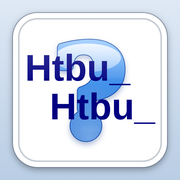
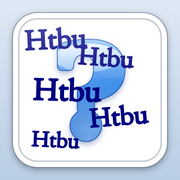
圖標字樣改成五組 Htbu：Satsuki 加粗、大小角度不一、部分交疊
Claude-Session: https://claude.ai/code/session_01CvYpPQnMtBqMma8WMqr6Vg

Changed region(s): [[0.1389, 0.1389, 0.8611, 0.7222], [0.1667, 0.7222, 0.4444, 0.8333]]

diff --git a/tools/icon.html b/tools/icon.html
@@ -1,8 +1,8 @@
 <!doctype html><meta charset="utf-8"><style>
 @font-face{font-family:QM;src:url(file:///usr/share/fonts/truetype/dejavu/DejaVuSerif-Bold.ttf)}
-@font-face{font-family:TX;src:url(file:///usr/share/fonts/truetype/liberation/LiberationSans-Bold.ttf)}
+@font-face{font-family:TX;src:url(../SatsukiGendaiMincho-M.ttf)}
 body{margin:0}</style><canvas id="c" width="1024" height="1024"></canvas><script>
-async function draw(){await document.fonts.load('100px QM','?');await document.fonts.load('100px TX','Htbu_');
+async function draw(){await document.fonts.load('100px QM','?');await document.fonts.load('100px TX','Htbu');
 const S=1024,c=document.getElementById('c').getContext('2d');
 /* 外圍底色（iOS 會自己裁圓角，四角不能透明） */
 const bgG=c.createLinearGradient(0,0,0,S);bgG.addColorStop(0,'#dfe9f5');bgG.addColorStop(1,'#b9cde4');c.fillStyle=bgG;c.fillRect(0,0,S,S);
@@ -25,8 +25,9 @@ const rg=o.createRadialGradient(S/2,qb,0,S/2,qb,qs*.5);rg.addColorStop(0,'rgba(1
 c.save();c.shadowColor='rgba(20,60,140,.35)';c.shadowBlur=S*.03;c.shadowOffsetY=S*.015;c.lineJoin='round';c.lineWidth=S*.053;c.strokeStyle='#1a4fa8';c.strokeText('?',S/2,qy);c.restore();c.drawImage(off,0,0);
 
 /* Htbu_：Win95 預設主題色②，像參考圖一樣錯開疊在方形裡 */
-c.font=`100px TX`;const tw=c.measureText('Htbu_').width;c.font=`${100*W*.68/tw}px TX`;c.textAlign='left';c.fillStyle='#000080';
-c.fillText('Htbu_',M+W*.08,M+W*.44);c.fillText('Htbu_',M+W*.24,M+W*.69);
+c.font=`100px TX`;c.textAlign='left';const tw=c.measureText('Htbu').width;c.fillStyle=c.strokeStyle='#000080';c.lineJoin='round';
+/* Satsuki（Win7 字體）加粗：同色描邊；五組大小、位置、角度都不一樣，有些交疊 */
+[[.08,.24,.40,-.05],[.42,.33,.36,.07],[.13,.56,.44,.03],[.50,.74,.38,-.08],[.12,.86,.31,.05]].forEach(([x,y,w,r])=>{const f=100*W*w/tw;c.save();c.translate(M+W*x,M+W*y);c.rotate(r);c.font=`${f}px TX`;c.lineWidth=f*.06;c.strokeText('Htbu',0,0);c.fillText('Htbu',0,0);c.restore()});
 c.restore();
 /* 頭貼外框：上半亮面＋白色半透明內框＋細深邊（比照 html.w7 .av） */
 c.save();rr(M,M,W,W,R);c.clip();

diff --git a/sw.js b/sw.js
@@ -1,5 +1,5 @@
 // 更新程式後，把下面的版本號加 1，手機才會抓到新版
-const C = 'nyear-v251';
+const C = 'nyear-v252';
 const FILES = ['./', './index.html', './fonts.css', './manifest.webmanifest', './icon-192.png', './icon-512.png', './apple-touch-icon.png'];
 // 字體切成小份（fonts/）：先備好 Win95 字體的第一份（英數標點＋介面文字），其他用到時才下載
 const FONTS = ['./fonts/c00.ttf'];
